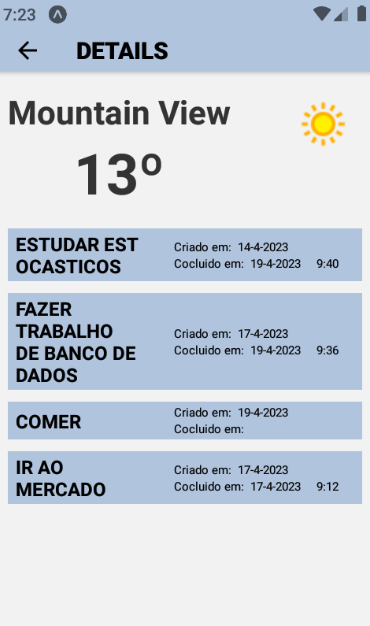
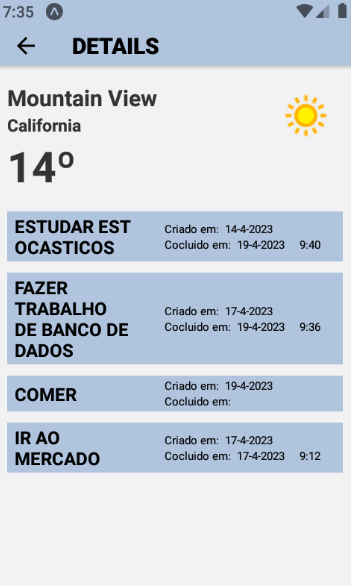
Att readme

diff --git a/src/components/WeatherAPI.tsx b/src/components/WeatherAPI.tsx
@@ -45,6 +45,7 @@ console.log(icon)
           
         <View>
         <Text style={styles.weatherInfo}>{data.location.name}</Text>
+        <Text style={styles.region}>{data.location.region}</Text>
         <Text style={styles.temperature}>{data.current.temp_c + 'º' }</Text>
         </View>
         <Image source={{uri: icon}} style={styles.logo} />
@@ -70,17 +71,24 @@ console.log(icon)
       marginBottom:10,
     },
     weatherInfo: {
-        fontSize: 28,
+        fontSize: 20,
         fontWeight: 'bold',
         color: '#333',
         textAlign: 'center',
         
     },
+    region: {
+      fontSize: 15,
+      fontWeight: 'bold',
+      color: '#333',
+      textAlign: 'left',
+      
+  },
     temperature: {
-        fontSize: 48,
+        fontSize: 38,
         fontWeight: 'bold',
         color: '#333',
-        textAlign: 'center',
+        textAlign: 'left',
       },
     logo: {
       width: 66,
